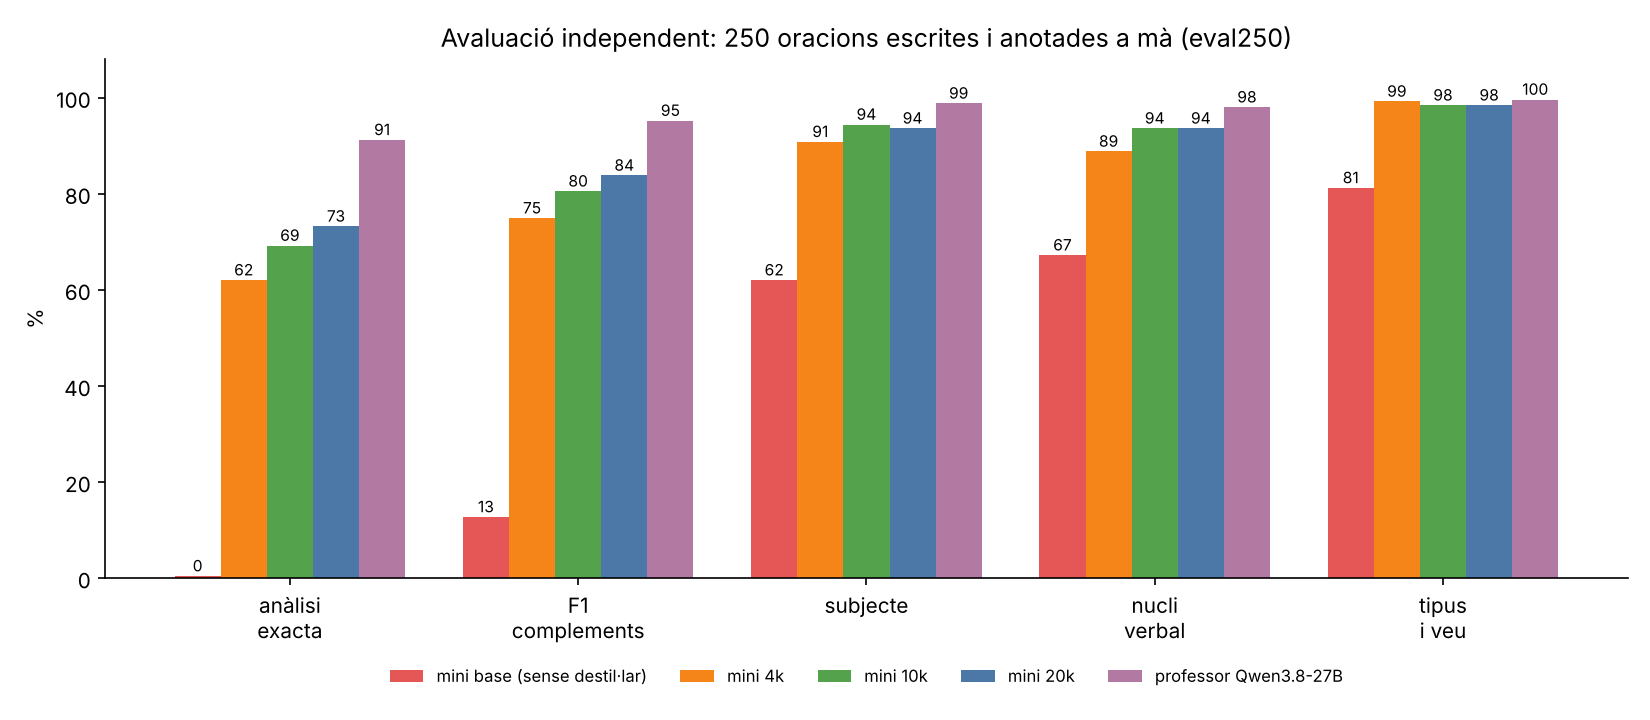
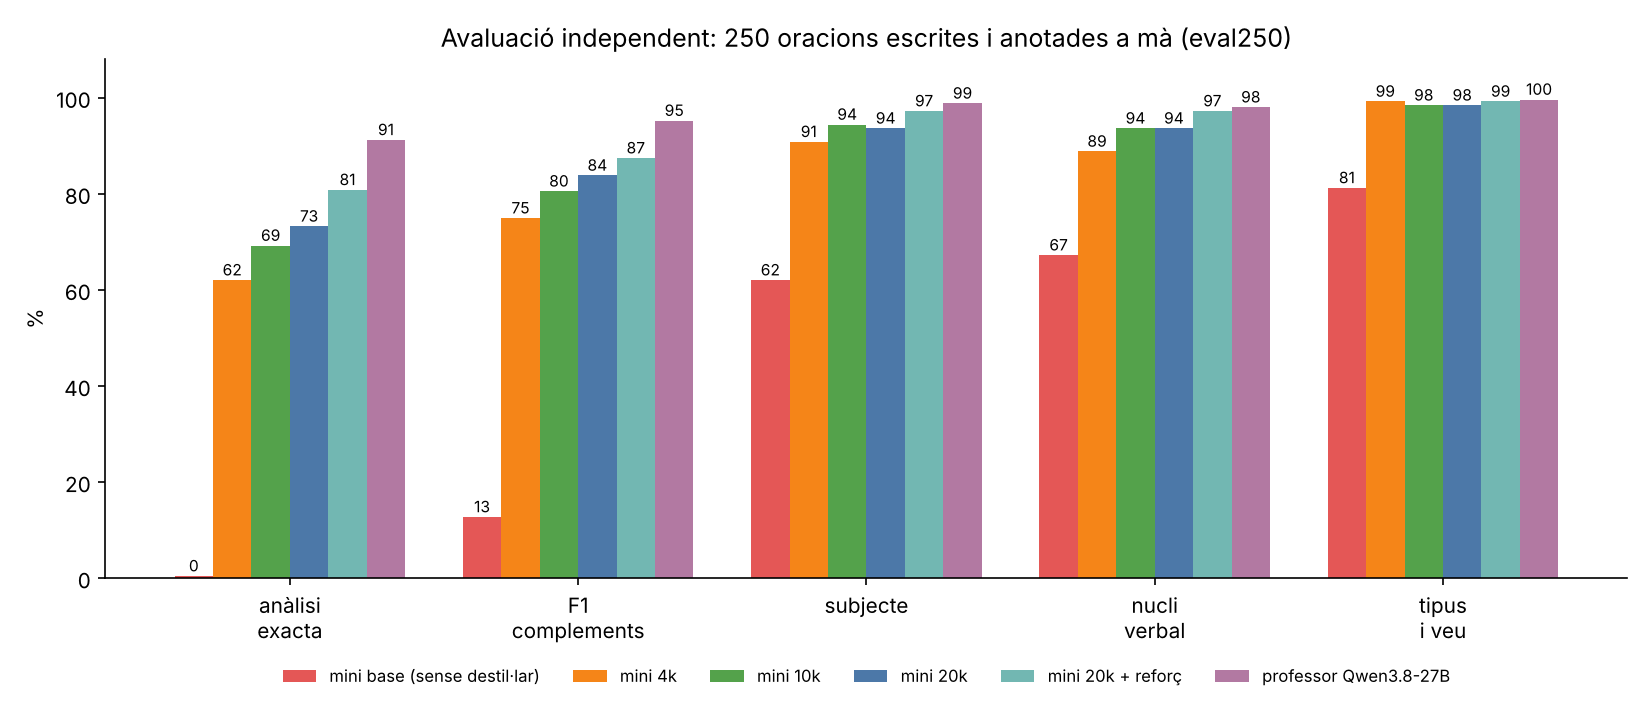
Segona ronda: mini 20k + reforç (eval250 73,2 → 80,8; CRV 6,7 → 80,0), gràfics i README

diff --git a/publica_reforc.py b/publica_reforc.py
@@ -1,0 +1,154 @@
+# publica_reforc.py — publica a HF el mini 20k + reforç: dataset, model i GGUF (fitxes en català)
+import json, os, re, shutil
+USUARI = "xaviviro"; GH = "https://github.com/xaviviro/destillacio-sintaxi-catala"
+MIDA = "20k-reforc"
+DS = f"{USUARI}/sintaxi-catala-destillada-{MIDA}"; MD = f"{USUARI}/Qwen3.5-0.8B-sintaxi-catala-{MIDA}"
+MD20 = f"{USUARI}/Qwen3.5-0.8B-sintaxi-catala-20k"; DS20 = f"{USUARI}/sintaxi-catala-destillada-20k"
+
+
+def L(p): return [json.loads(l) for l in open(p, encoding="utf-8")]
+
+
+def taula(m):  # m = {nom: {"ref":..,"test":..,"eval250":..,"crv":..,"imp":..}}
+    s = "| model | referència manual (30) | test (300) | eval250 (250 a mà) | eval250 · CRV | eval250 · impersonals |\n|---|---|---|---|---|---|\n"
+    return s + "\n".join(f"| {n} | {v['ref']:.1f} | {v['test']:.1f} | **{v['eval250']:.1f}** | {v['crv']:.1f} | {v['imp']:.1f} |" for n, v in m.items())
+
+
+def card_dataset(n20, nref, n_test, comptes):
+    return f"""---
+language:
+- ca
+license: cc-by-4.0
+task_categories:
+- text-generation
+pretty_name: Sintaxi catalana destil·lada — 20k + reforç
+tags:
+- catalan
+- syntax
+- distillation
+- synthetic
+configs:
+- config_name: default
+  data_files:
+  - split: train
+    path: train.jsonl
+  - split: test
+    path: test.jsonl
+- config_name: nomes_reforc
+  data_files: reforc.jsonl
+---
+
+# sintaxi-catala-destillada-20k-reforc
+
+Anàlisis sintàctiques d'oracions simples en català (JSON de gramàtica escolar) **destil·lades de Qwen3.8-27B**.
+Conté el dataset [{DS20}](https://huggingface.co/datasets/{DS20}) ({n20} exemples) més una **segona ronda de {nref} exemples de reforç**.
+El reforç va dirigit als punts febles que va trobar l'avaluació independent [eval250](https://huggingface.co/datasets/xaviviro/sintaxi-catala-eval250).
+Projecte: [{GH}]({GH}).
+
+## Com s'ha fet el reforç
+
+1. El professor (Qwen3.8-27B) escriu 4.757 oracions noves demanant-li sobretot complement de règim verbal (35 %), impersonals (25 %), pronoms febles (30 %) i complement predicatiu (10 %).
+   Per al CRV se li dona una pista («pensar en, parlar de, confiar en, dependre de…»).
+2. El professor les analitza **a cegues**, amb raonament, sense saber quina estructura s'havia demanat.
+3. Filtre determinista (`valida()`) + coincidència entre l'anàlisi a cegues i l'estructura demanada: en queden **{nref}** (22 %).
+4. Es descarta qualsevol oració que ja fos als datasets, al test de 300, a la referència manual o a l'eval250.
+
+Funcions al reforç: {comptes}.
+
+## Fitxers
+
+- `train.jsonl`: {n20 + nref} exemples (20k + reforç, barrejats).
+- `reforc.jsonl`: només els {nref} exemples de reforç (configuració `nomes_reforc`).
+- `test.jsonl`: el mateix test de {n_test} que la resta de mides.
+
+El format és el mateix que a [{DS20}](https://huggingface.co/datasets/{DS20}).
+
+## Limitacions
+
+- Les etiquetes són del professor, filtrades automàticament: no són anotació humana.
+- El reforç s'ha dirigit als grups on l'eval250 fallava. Cap oració de l'eval250 no és aquí, però la millora en aquests grups no és una mesura del tot independent.
+
+## Llicència i autoria
+
+CC BY 4.0. Xavier Vinaixa Roselló ([xaviviro](https://huggingface.co/xaviviro)), Sorensen AI, Barcelona, Catalunya.
+"""
+
+
+def card_model(m, us):
+    return f"""---
+language:
+- ca
+license: apache-2.0
+base_model: Qwen/Qwen3.5-0.8B
+datasets:
+- {DS}
+pipeline_tag: text-generation
+tags:
+- catalan
+- syntax
+- distillation
+---
+
+# Qwen3.5-0.8B · analitzador sintàctic del català (20k + reforç)
+
+Qwen3.5-0.8B destil·lat de **Qwen3.8-27B** per fer l'anàlisi sintàctica escolar d'oracions simples en català.
+Escrius **només l'oració** i respon amb el JSON. És el [mini 20k](https://huggingface.co/{MD20}) reentrenat des del model base amb el mateix
+dataset més **1.033 exemples de reforç** dirigits als seus punts febles: complement de règim verbal, impersonals, pronoms febles i CPRED.
+Dataset: [{DS}](https://huggingface.co/datasets/{DS}). Versió 4 bits per a LM Studio: [{MD}-GGUF](https://huggingface.co/{MD}-GGUF).
+Projecte: [{GH}]({GH}).
+
+## Resultats (mesurats, anàlisi exacta %)
+
+{taula(m)}
+
+El reforç puja l'eval250 de 73,2 a 80,8 i el CRV de 6,7 a 80,0. També millora la referència manual de 30 oracions, que no s'ha fet servir per triar el reforç (73,3 → 83,3).
+Alguns grups baixen una mica (predicat nominal, subjecte el·líptic), però són 2 oracions de 20–25.
+
+{us}
+
+## Entrenament
+
+SFT complet amb TRL, 3 èpoques, lr 2e-5 (cosinus), batch 16, bf16, pèrdua només sobre la resposta, prompt curt (només l'oració, sense raonament).
+Mateixa configuració que les altres mides.
+
+## Autoria
+
+Xavier Vinaixa Roselló ([xaviviro](https://huggingface.co/xaviviro)), Sorensen AI, Barcelona, Catalunya. Apache 2.0.
+"""
+
+
+def us_del_20k():
+    from huggingface_hub import hf_hub_download
+    md = open(hf_hub_download(MD20, "README.md", force_download=True), encoding="utf-8").read()
+    m = re.search(r"\n## Ús.*?(?=\n## )", md, re.S)
+    return m.group(0).strip().replace("sintaxi-catala-20k", f"sintaxi-catala-{MIDA}") if m else ""
+
+
+def publica(token, BASE, metr, comptes):
+    from huggingface_hub import HfApi
+    api = HfApi(token=token)
+    # dataset
+    d = "/content/up_ds_reforc"; os.makedirs(d, exist_ok=True)
+    t20, rf, te = L(f"{BASE}/train.jsonl"), L(f"{BASE}/reforc/train_reforc.jsonl"), L(f"{BASE}/test.jsonl")
+    import random
+    tr = t20 + rf; random.Random(1).shuffle(tr)
+    for nom, rows in [("train", tr), ("reforc", rf), ("test", te)]:
+        with open(f"{d}/{nom}.jsonl", "w", encoding="utf-8") as f:
+            for r in rows: f.write(json.dumps(r, ensure_ascii=False) + "\n")
+    open(f"{d}/README.md", "w", encoding="utf-8").write(card_dataset(len(t20), len(rf), len(te), comptes))
+    api.create_repo(DS, repo_type="dataset", exist_ok=True, private=False)
+    api.upload_folder(folder_path=d, repo_id=DS, repo_type="dataset", commit_message="Dataset 20k + reforç")
+    # model (bf16, sense training_args)
+    src = f"{BASE}/alumne_destillat_20k_reforc"; up = "/content/up_model_reforc"
+    import torch
+    from transformers import AutoModelForCausalLM, AutoTokenizer
+    if os.path.exists(up): shutil.rmtree(up)
+    AutoModelForCausalLM.from_pretrained(src, torch_dtype=torch.bfloat16).save_pretrained(up)
+    AutoTokenizer.from_pretrained(src).save_pretrained(up)
+    for f in os.listdir(src):
+        if f.endswith((".json", ".jinja", ".txt")) and not os.path.exists(f"{up}/{f}"):
+            shutil.copy(f"{src}/{f}", up)
+    open(f"{up}/README.md", "w", encoding="utf-8").write(card_model(metr, us_del_20k()))
+    api.create_repo(MD, exist_ok=True, private=False)
+    api.upload_folder(folder_path=up, repo_id=MD, commit_message="Model 20k + reforç")
+    return DS, MD

diff --git a/actualitza_cards.py b/actualitza_cards.py
@@ -7,7 +7,7 @@ USUARI = "xaviviro"
 EVAL_REPO = f"{USUARI}/sintaxi-catala-eval250"
 GH = "https://github.com/xaviviro/destillacio-sintaxi-catala"
 IMG = f"https://huggingface.co/datasets/{EVAL_REPO}/resolve/main/grafics"
-MIDES = ["4k", "10k", "20k"]
+MIDES = ["4k", "10k", "20k", "20k-reforc"]
 
 
 def cita(ident, titol):
@@ -32,13 +32,13 @@ TITOLS = {
     "eval": ("sintaxieval250", "sintaxi-catala-eval250: 250 oracions catalanes anotades a mà per avaluar l'anàlisi sintàctica"),
 }
 for m in MIDES:
-    TITOLS[f"dataset_{m}"] = (f"sintaxidataset{m}", f"sintaxi-catala-destillada-{m}: anàlisis sintàctiques del català destil·lades de Qwen3.8-27B")
-    TITOLS[f"model_{m}"] = (f"sintaximodel{m}", f"Qwen3.5-0.8B-sintaxi-catala-{m}: analitzador sintàctic del català destil·lat")
-    TITOLS[f"gguf_{m}"] = (f"sintaxigguf{m}", f"Qwen3.5-0.8B-sintaxi-catala-{m}-GGUF: analitzador sintàctic del català quantitzat a 4 bits")
+    TITOLS[f"dataset_{m}"] = (f"sintaxidataset{m.replace('-', '')}", f"sintaxi-catala-destillada-{m}: anàlisis sintàctiques del català destil·lades de Qwen3.8-27B")
+    TITOLS[f"model_{m}"] = (f"sintaximodel{m.replace('-', '')}", f"Qwen3.5-0.8B-sintaxi-catala-{m}: analitzador sintàctic del català destil·lat")
+    TITOLS[f"gguf_{m}"] = (f"sintaxigguf{m.replace('-', '')}", f"Qwen3.5-0.8B-sintaxi-catala-{m}-GGUF: analitzador sintàctic del català quantitzat a 4 bits")
 
 
 def seccio_eval(res, mida=None):
-    dest = f" El model d'aquesta fitxa és el **mini {mida}**." if mida else ""
+    dest = f" El model d'aquesta fitxa és el **mini {mida.replace('-reforc', ' + reforç')}**." if mida else ""
     return f"""## Avaluació independent — eval250 (mesurada)
 
 Test nou de **250 oracions escrites i anotades a mà**, separat de tot el procés de destil·lació: cap oració no l'ha generada el professor i
@@ -55,7 +55,7 @@ Anàlisi exacta (%) per tipus d'oració:
 
 ![eval250 per grups]({IMG}/eval250_grups.png)
 
-*Mini destil·lats amb el prompt curt (només l'oració); mini base amb el prompt complet; professor amb raonament (thinking), temperatura 0,6.
+*«Mini 20k + reforç» = el 20k més 1.033 oracions de reforç dirigides a CRV, impersonals, pronoms febles i CPRED, generades i filtrades igual que la resta. Cap oració de l'eval250 no s'ha fet servir per entrenar, però el reforç es va dirigir als grups on l'eval250 fallava: en aquests grups la millora no és una mesura del tot independent. Mini destil·lats amb el prompt curt (només l'oració); mini base amb el prompt complet; professor amb raonament (thinking), temperatura 0,6.
 Una anàlisi és exacta si coincideixen subjecte, nucli verbal, tipus de predicat, veu i el conjunt de complements (funció + text).*
 """
 

diff --git a/eval250_analisi.py b/eval250_analisi.py
@@ -8,8 +8,9 @@ import matplotlib.pyplot as plt
 import numpy as np
 
 NOMS = [("base", "mini base\n(sense destil·lar)"), ("4k", "mini 4k"), ("10k", "mini 10k"),
-        ("20k", "mini 20k"), ("professor", "professor\nQwen3.8-27B")]
-COLS = {"base": "#E45756", "4k": "#F58518", "10k": "#54A24B", "20k": "#4C78A8", "professor": "#B279A2"}
+        ("20k", "mini 20k"),
+        ("20k_reforc", "mini 20k\n+ reforç"), ("professor", "professor\nQwen3.8-27B")]
+COLS = {"base": "#E45756", "4k": "#F58518", "10k": "#54A24B", "20k": "#4C78A8", "20k_reforc": "#72B7B2", "professor": "#B279A2"}
 METS = [("exacte", "anàlisi\nexacta"), ("F1_complements", "F1\ncomplements"), ("subjecte", "subjecte"),
         ("nucli_verbal", "nucli\nverbal"), ("tipus_i_veu", "tipus\ni veu")]
 

diff --git a/README.md b/README.md
@@ -26,6 +26,8 @@ El mini destil·lat amb 20k oracions encerta l'anàlisi exacta en el **73 %** de
 | GGUF Q4_K_M (0,53 GB, LM Studio) | […-4k-GGUF](https://huggingface.co/xaviviro/Qwen3.5-0.8B-sintaxi-catala-4k-GGUF) | […-10k-GGUF](https://huggingface.co/xaviviro/Qwen3.5-0.8B-sintaxi-catala-10k-GGUF) | […-20k-GGUF](https://huggingface.co/xaviviro/Qwen3.5-0.8B-sintaxi-catala-20k-GGUF) |
 | test independent (250 a mà) | [sintaxi-catala-eval250](https://huggingface.co/datasets/xaviviro/sintaxi-catala-eval250) · per a les tres mides | | |
 
+**20k + reforç** (el millor mini, vegeu «Segona ronda» més avall): [dataset](https://huggingface.co/datasets/xaviviro/sintaxi-catala-destillada-20k-reforc) · [model bf16](https://huggingface.co/xaviviro/Qwen3.5-0.8B-sintaxi-catala-20k-reforc) · [GGUF Q4_K_M per a LM Studio](https://huggingface.co/xaviviro/Qwen3.5-0.8B-sintaxi-catala-20k-reforc-GGUF).
+
 ## Comparativa d'efectivitat (mesurada)
 
 **Referència manual — 30 oracions anotades a mà**
@@ -88,34 +90,53 @@ Cobreix 11 tipus d'oració. Dataset: [xaviviro/sintaxi-catala-eval250](https://h
 | mini 4k | **62.0** | 74.9 | 80.2 | 90.8 | 88.8 | 99.2 | 100.0 | 3.9 |
 | mini 10k | **69.2** | 80.5 | 84.1 | 94.4 | 93.6 | 98.4 | 100.0 | 4.0 |
 | mini 20k | **73.2** | 83.8 | 86.2 | 93.6 | 93.6 | 98.4 | 99.6 | 4.0 |
+| mini 20k + reforç | **80.8** | 87.4 | 90.1 | 97.2 | 97.2 | 99.2 | 100.0 | 3.9 |
 | professor Qwen3.8-27B | **91.2** | 95.2 | 95.5 | 98.8 | 98.0 | 99.6 | 99.6 | 881.1 |
 
 ![eval250 per grups](resultats/eval250_grups.png)
 
 Anàlisi exacta (%) per tipus d'oració:
 
-| tipus d'oració (n) | mini base (sense destil·lar) | mini 4k | mini 10k | mini 20k | professor Qwen3.8-27B |
-|---|---|---|---|---|---|
-| CD (30) | 0 | 93 | 90 | 90 | 100 |
-| CD+CI (20) | 0 | 85 | 100 | 85 | 100 |
-| pronoms febles (15) | 0 | 33 | 40 | 60 | 93 |
-| predicat nominal (25) | 0 | 84 | 80 | 96 | 88 |
-| veu passiva (20) | 0 | 100 | 95 | 85 | 95 |
-| impersonal (15) | 0 | 0 | 47 | 47 | 80 |
-| CPRED (15) | 0 | 47 | 47 | 53 | 67 |
-| CRV (15) | 0 | 0 | 7 | 7 | 73 |
-| CC (50) | 0 | 46 | 68 | 74 | 94 |
-| verbs incoatius (25) | 4 | 80 | 68 | 72 | 96 |
-| subjecte el·líptic (20) | 0 | 70 | 75 | 90 | 95 |
+| tipus d'oració (n) | mini base (sense destil·lar) | mini 4k | mini 10k | mini 20k | mini 20k + reforç | professor Qwen3.8-27B |
+|---|---|---|---|---|---|---|
+| CD (30) | 0 | 93 | 90 | 90 | 100 | 100 |
+| CD+CI (20) | 0 | 85 | 100 | 85 | 85 | 100 |
+| pronoms febles (15) | 0 | 33 | 40 | 60 | 60 | 93 |
+| predicat nominal (25) | 0 | 84 | 80 | 96 | 88 | 88 |
+| veu passiva (20) | 0 | 100 | 95 | 85 | 95 | 95 |
+| impersonal (15) | 0 | 0 | 47 | 47 | 60 | 80 |
+| CPRED (15) | 0 | 47 | 47 | 53 | 60 | 67 |
+| CRV (15) | 0 | 0 | 7 | 7 | 80 | 73 |
+| CC (50) | 0 | 46 | 68 | 74 | 78 | 94 |
+| verbs incoatius (25) | 4 | 80 | 68 | 72 | 80 | 96 |
+| subjecte el·líptic (20) | 0 | 70 | 75 | 90 | 80 | 95 |
 
 Què s'hi veu (mesurat):
-- Mateixa ordenació que a la referència manual: base 0,4 % → 4k 62 % → 10k 69 % → 20k 73 % → professor 91 %. Els resultats de la referència de 30 (60 / 70 / 73 / 93) es mantenen amb un test 8 vegades més gran.
+- Mateixa ordenació que a la referència manual: base 0,4 % → 4k 62 % → 10k 69 % → 20k 73 % → (20k + reforç 81 %) → professor 91 %. Els resultats de la referència de 30 (60 / 70 / 73 / 93) es mantenen amb un test 8 vegades més gran.
 - **CRV**: el mini falla gairebé sempre (0–7 %). El confon amb un CC de lloc («pensa *en el seu avi*» → CC_LLOC). El professor l'encerta en el 73 %. Al train de 20k només hi ha 8 CRV.
 - **Impersonals** (47 % al 10k i al 20k, 0 % al 4k) i **pronoms febles** (33 → 60 %) són els altres punts febles; el professor hi arriba al 80 % i al 93 %.
 - CD, CD+CI, passiva i predicat nominal: ≥ 85 % al 20k.
 
-Hipòtesi (no comprovada): afegir més oracions amb CRV, impersonals i pronoms febles al dataset milloraria aquests grups més que no pas afegir-ne de genèriques.
-Cada grup té entre 15 i 50 oracions: una oració de 15 són 6,7 punts.
+### Segona ronda: reforç dirigit als punts febles (mesurat)
+
+Per comprovar si el que faltava eren exemples dels grups febles, el professor va escriure 4.757 oracions noves centrades en CRV (35 %), impersonals (25 %),
+pronoms febles (30 %) i CPRED (10 %), amb una pista sobre què és un CRV. Les va analitzar a cegues i va passar el mateix filtre: en van quedar **1.033**,
+340 amb CRV (al 20k n'hi havia 8). Es va tornar a entrenar el mini des del model base amb el 20k + reforç (7.682 exemples) i la mateixa configuració.
+
+| | eval250 | CRV | impersonals | pronoms febles | referència manual (30) | test (300) |
+|---|---|---|---|---|---|---|
+| mini 20k | 73,2 | 6,7 | 46,7 | 60,0 | 73,3 | 92,3 |
+| **mini 20k + reforç** | **80,8** | **80,0** | 60,0 | 60,0 | **83,3** | 93,0 |
+
+- El CRV passa de 7 a 80 %: amb exemples, el model petit l'aprèn.
+- També millora la referència manual de 30, que no es va fer servir per decidir el reforç.
+- Els pronoms febles no milloren (60 %), i el predicat nominal i el subjecte el·líptic baixen 2 oracions cadascun.
+- Avís: el reforç es va dirigir als grups on fallava l'eval250. Cap oració de l'eval250 no s'ha fet servir, però en aquests grups l'eval250 ja no és una mesura del tot independent.
+
+Model: [Qwen3.5-0.8B-sintaxi-catala-20k-reforc](https://huggingface.co/xaviviro/Qwen3.5-0.8B-sintaxi-catala-20k-reforc) ·
+GGUF: [...-20k-reforc-GGUF](https://huggingface.co/xaviviro/Qwen3.5-0.8B-sintaxi-catala-20k-reforc-GGUF) ·
+dataset: [sintaxi-catala-destillada-20k-reforc](https://huggingface.co/datasets/xaviviro/sintaxi-catala-destillada-20k-reforc).
+Codi: `gen_frases.py --reforc 1`, `reforc.py`, `reforc_train_cell.py`, `publica_reforc.py`.
 
 ## Mides, memòria i cost
 
